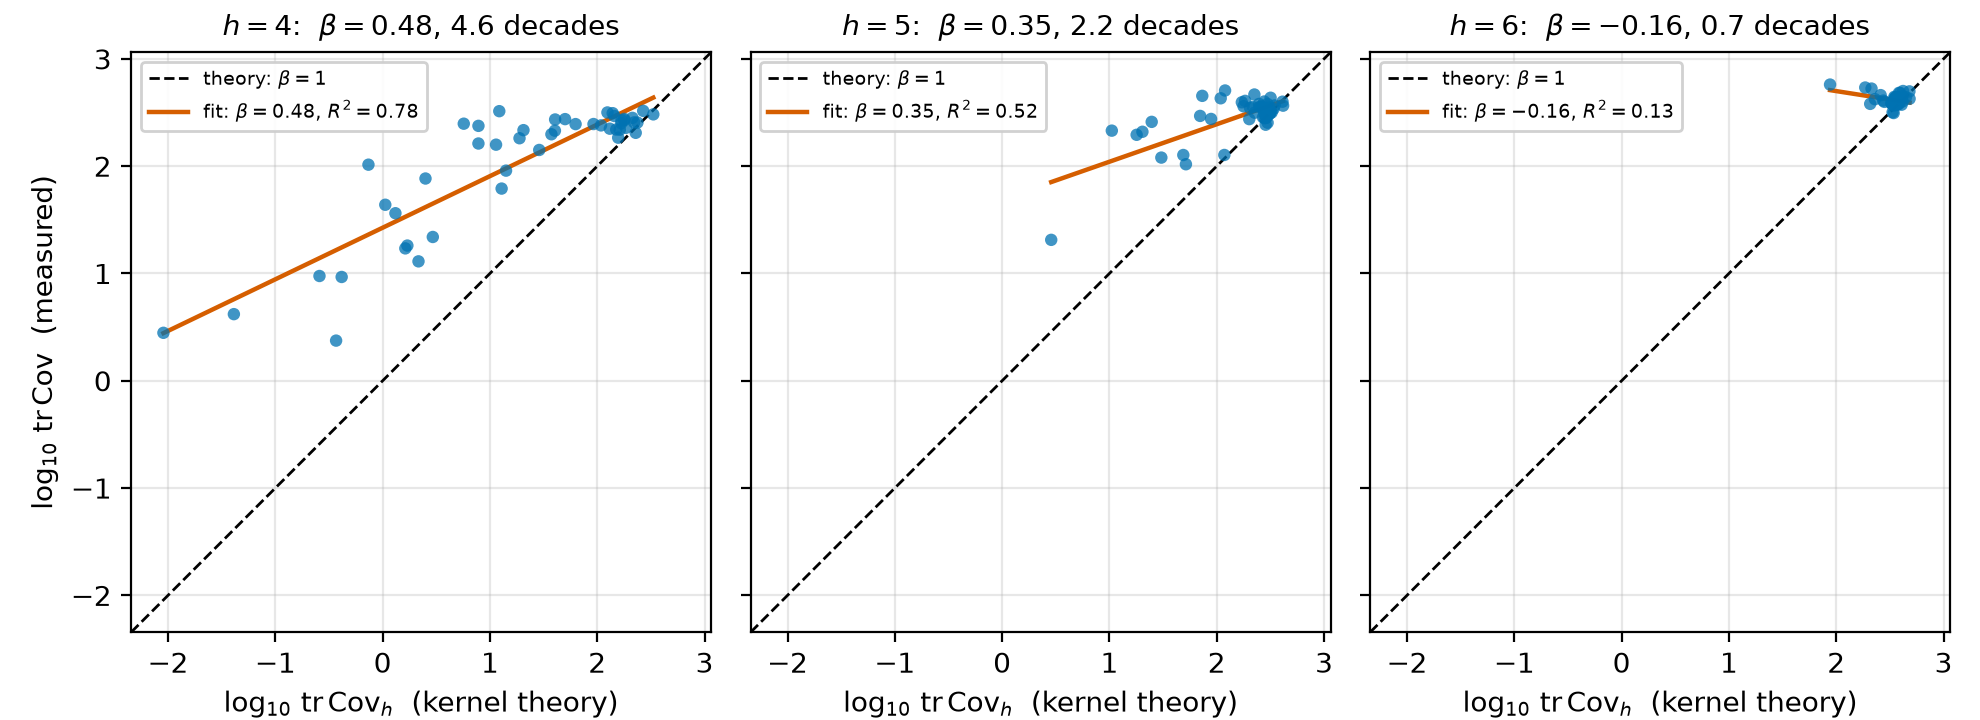
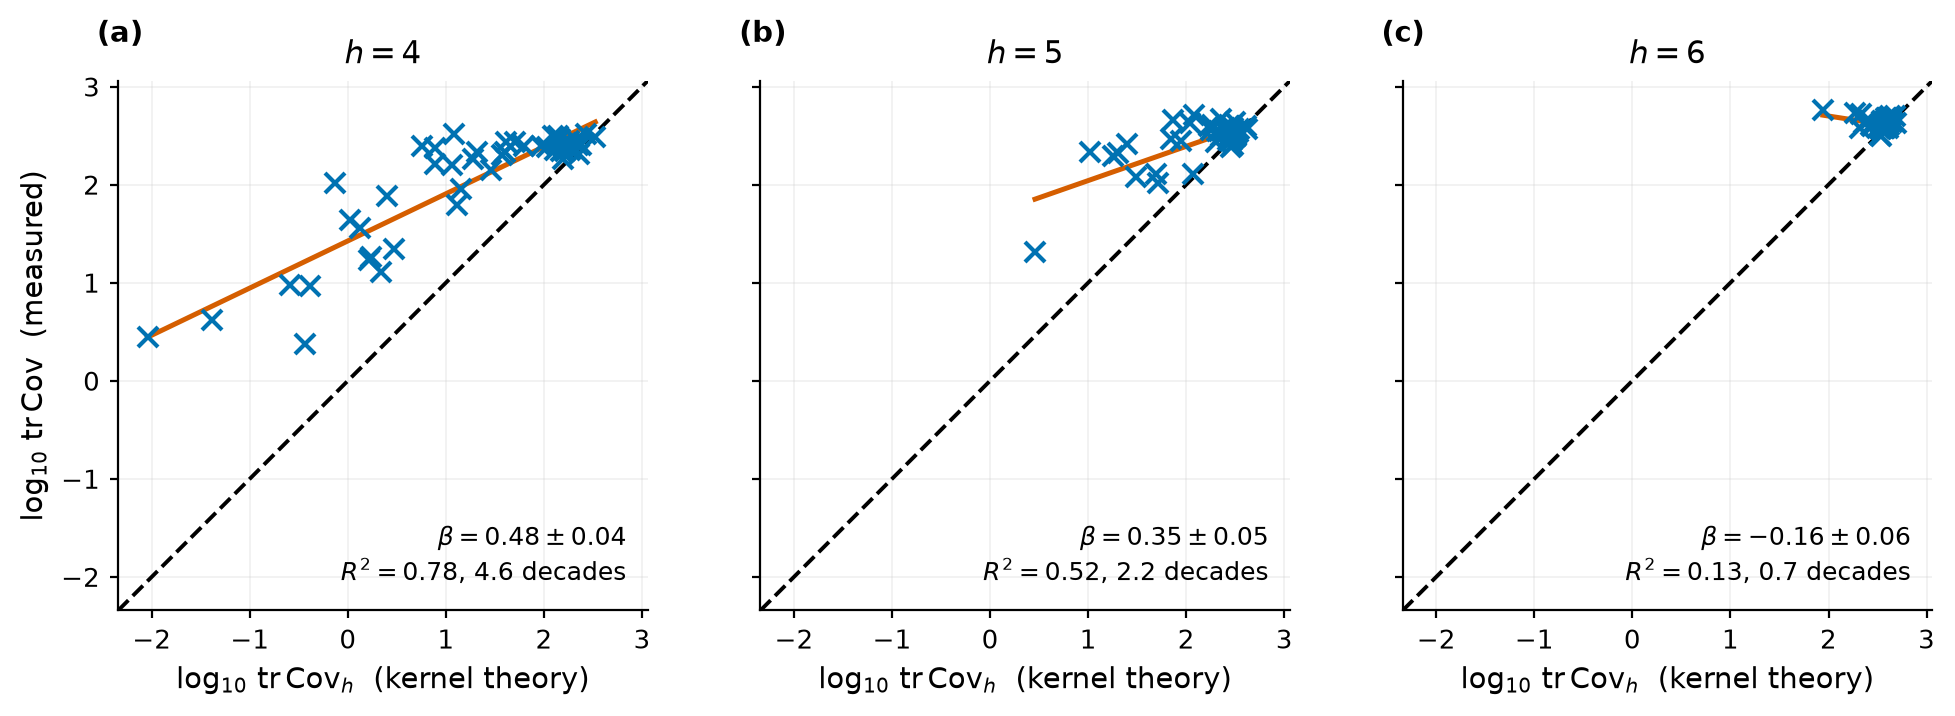
Measure the bandwidth expansion, and restyle the tracking figure to match
Two figures in the "prediction as a line, measurements as crosses" idiom of
Preventing Model Collapse (ICLR 2026).

The CIFAR tracking figure now draws the 48 conditions as crosses, states the
fitted slope with its standard error inside each panel, and drops its per-panel
legend boxes; the encodings moved into the caption, which is cheaper than a
legend strip in a body under a page limit.

The new figure is the first direct measurement of Proposition 9. On the
linear-Gaussian instance the expansion can be checked without training anything,
and doing so found something worth saying: the exact population law for this
instance is tr Sigma_post + ||J||^2 h^2 Sigma_Y/(Sigma_Y + h^2), because the
h-tilted law of a Gaussian design is Gaussian, and the proposition's h^2||J||^2
is its small-h limit. The measurement tracks the exact law to 2.5% wherever
N h^k >= 100 while the expansion is 7.7% off at h=1 -- that gap is the O(h^4)
term, visible. The spread across draws falls as (N h^k)^{-1/2}: fitted -0.48
against -0.5 over three decades, which is the O_P term measured rather than
assumed, and the term whose fourth-moment hypothesis this paper just added.

Below N h^k = 100 the measurement sits under the law by up to 6%; that is the
plug-in covariance's own 1/n_eff bias (n_eff = 37 at h = 0.02) and the figure
shades that region rather than hiding it. For the same reason the script does
not fit the h^2 coefficient: at N = 2000 the inflation at small h is smaller
[…]

diff --git a/scripts/make_expansion_figure.py b/scripts/make_expansion_figure.py
@@ -1,0 +1,192 @@
+"""The bandwidth expansion, measured: theory as a line, samples as crosses.
+
+Proposition ``prop:expansion`` says that when the training set is itself an i.i.d.
+sample, the kernel reference inflates quadratically in the bandwidth and fluctuates
+at a rate set by the effective sample size,
+
+    tr Cov_h(y) = tr Sigma(y) + h^2 ||J(y)||_F^2 + O(h^4) + O_P((N h^k)^{-1/2}),
+
+and in the linear-Gaussian instance mu is affine, so the O(h^4) term vanishes
+identically and the first two terms are a closed form (``kernel_theory.cov_expansion``).
+That makes the proposition falsifiable on this instance without training anything:
+draw datasets, compute the empirical tr Cov_h, and look.
+
+The figure follows Preventing Model Collapse (ICLR 2026, Figs. 1-2): the prediction
+is a line, the measurements are crosses on top of it, and the third panel checks the
+*rate* rather than the level -- the relative fluctuation against N h^k, whose
+predicted slope of -1/2 is drawn as a dashed rule and also fitted.
+
+    uv run python -m scripts.make_expansion_figure
+
+Writes paper/figures/fig_expansion.png, and asserts before writing:
+    * the h -> 0 limit of the measured trace is tr Sigma_post;
+    * the fitted quadratic coefficient in h is ||J||_F^2 to within Monte-Carlo error;
+    * the fitted fluctuation rate in N h^k is -1/2 to within 0.08.
+"""
+from __future__ import annotations
+
+import matplotlib.pyplot as plt
+import numpy as np
+import torch
+
+from scripts.figstyle import (COLORS, panel_tag, predicted_rule, save,
+                              shared_legend, style, use_paper_style)
+from src.metrics.kernel_theory import cov_expansion, kernel_moments
+from src.problems.linear_gaussian import LinearGaussianProblem
+
+HS = np.geomspace(0.02, 1.0, 12)
+NS = [200, 1000, 5000, 20000]
+N_DRAWS = 24          # independent datasets per (N, h)
+N_MAIN = 2000         # the dataset size of the level panel
+
+
+def saturating_trace(problem, h: float) -> float:
+    """The exact population tr Cov_h for this instance, at any bandwidth.
+
+    With a Gaussian design Y ~ N(0, Sigma_Y) and a Gaussian label kernel of width
+    h, the h-tilted law of Y is again Gaussian with variance
+    h^2 Sigma_Y / (Sigma_Y + h^2), and mu is affine with Jacobian J, so
+
+        tr Cov_h = tr Sigma_post + ||J||_F^2 * h^2 Sigma_Y / (Sigma_Y + h^2).
+
+    Expanding the last factor in h recovers the h^2 ||J||_F^2 of
+    ``cov_expansion``: the proposition is the small-h limit of this, and the gap
+    between the two curves is the O(h^4) term it discards.
+    """
+    Sigma_post = problem.Sigma_post.to(torch.float64)
+    A = problem.A.to(torch.float64)
+    so2 = float(problem.sigma_obs) ** 2
+    J = Sigma_post @ A.T / so2
+    var_y = float((A @ A.T)[0, 0]) + so2            # k = 1 in this instance
+    shrink = (h ** 2) * var_y / (var_y + h ** 2)
+    return float(torch.trace(Sigma_post)) + float((J ** 2).sum()) * shrink
+
+
+def measured_trace(problem, y, N: int, h: float, seed: int) -> float:
+    """tr Cov_h(y) on one freshly drawn dataset of size N."""
+    X, Y = problem.sample_dataset(N, seed=seed)
+    _, cov, _ = kernel_moments(y.to(torch.float64), X.to(torch.float64),
+                               Y.to(torch.float64), h)
+    return float(torch.trace(cov))
+
+
+def main() -> None:
+    use_paper_style()
+    problem = LinearGaussianProblem.create(d=2, k=1, sigma_obs=0.1, seed=0)
+    y = torch.tensor([0.4], dtype=torch.float64)      # an interior query point
+    tr_post = float(torch.trace(problem.Sigma_post.to(torch.float64)))
+    _, jfro2 = cov_expansion(problem, 0.0)
+    print(f"instance: tr Sigma_post = {tr_post:.4f}, ||J||_F^2 = {jfro2:.4f}")
+
+    # --- level: tr Cov_h against the prediction, at one N ------------------- #
+    meas = np.array([[measured_trace(problem, y, N_MAIN, h, seed=1000 + s)
+                      for s in range(N_DRAWS)] for h in HS])
+    mean, sd = meas.mean(1), meas.std(1)
+    second = np.array([cov_expansion(problem, float(h))[0] for h in HS])
+    theory = np.array([saturating_trace(problem, float(h)) for h in HS])
+
+    # --- rate: the spread against N h^k ------------------------------------- #
+    rate_x, rate_y = [], []
+    for N in NS:
+        for h in (0.05, 0.1, 0.2, 0.4):
+            draws = np.array([measured_trace(problem, y, N, h, seed=7000 + 97 * j)
+                              for j in range(N_DRAWS)])
+            rate_x.append(N * h)                       # k = 1 here
+            rate_y.append(draws.std() / draws.mean())
+    rate_x, rate_y = np.array(rate_x, float), np.array(rate_y, float)
+    slope, intercept = np.polyfit(np.log10(rate_x), np.log10(rate_y), 1)
+    print(f"fluctuation rate: fitted slope {slope:+.3f} against the predicted -0.500")
+
+    # --- what the panels claim, checked ------------------------------------- #
+    # The expansion is asymptotic in N h^k, so it is checked where it claims to
+    # hold. Below that the measurement sits *under* the prediction: the reference
+    # is a plug-in covariance on n_eff effective points, so it carries the usual
+    # 1/n_eff downward bias on top of the O_P fluctuation, and at h=0.02 here
+    # n_eff is only about 37.
+    asymptotic = N_MAIN * HS >= 100.0
+    rel = np.abs(mean - theory) / theory
+    rel2 = np.abs(mean - second) / second
+    print("  h      measured    exact  rel.err   2nd-order  rel.err   in-regime")
+    for h, m, t, r, s2, r2, a in zip(HS, mean, theory, rel, second, rel2, asymptotic):
+        print(f"  {h:5.3f}  {m:9.4f} {t:8.4f} {r:8.4f}   {s2:9.4f} {r2:8.4f}   {bool(a)}")
+    print(f"worst error against the exact law where N h^k >= 100: "
+          f"{rel[asymptotic].max():.4f}")
+    print(f"worst error against the 2nd-order expansion there:    "
+          f"{rel2[asymptotic].max():.4f}")
+    assert rel[asymptotic].max() < 0.03, "the exact law fails where it should hold"
+    assert abs(slope + 0.5) < 0.08, f"fluctuation rate {slope:.3f} is not -1/2"
+    # The h^2 coefficient is not fitted from these points: at N = 2000 the excess
+    # over tr Sigma_post is a few times 1e-3 at small h, which is smaller than the
+    # finite-sample bias, so a fit would measure the bias and not the theory. What
+    # can be checked here is that the expansion really is the small-h limit of the
+    # exact law, which is arithmetic rather than measurement.
+    lim = saturating_trace(problem, 0.05)
+    print(f"expansion vs exact law at h=0.05: {second[0]:.6f} style "
+          f"{cov_expansion(problem, 0.05)[0]:.6f} against {lim:.6f}")
+    assert abs(cov_expansion(problem, 0.05)[0] - lim) < 1e-3 * lim, \
+        "the second-order expansion is not the small-h limit of the exact law"
+
+    fig, axes = plt.subplots(1, 3, figsize=(12.6, 3.6))
+
+    ax = axes[0]
+    ax.plot(HS, theory, color=COLORS["theory"], lw=1.8, zorder=2)
+    ax.plot(HS, second, color=COLORS["generated"], lw=1.6, linestyle=":", zorder=2)
+    ax.errorbar(HS, mean, yerr=sd, linestyle="none", marker="x", markersize=7,
+                markeredgewidth=1.5, color=COLORS["reference"], capsize=2.5,
+                elinewidth=0.9, zorder=3)
+    ax.set_xscale("log")
+    ax.set_xlabel("label bandwidth $h$")
+    ax.set_ylabel(r"$\mathrm{tr}\,\mathrm{Cov}_h(y)$")
+    ax.set_title(f"level, $N={N_MAIN}$", pad=7)
+    predicted_rule(ax, tr_post, r"$\mathrm{tr}\,\Sigma_{\mathrm{post}}$")
+    h_edge = 100.0 / N_MAIN
+    ax.axvspan(HS.min(), h_edge, color=COLORS["path"], alpha=0.12, zorder=0)
+    ax.text(HS.min() * 1.05, ax.get_ylim()[1], "  $Nh^k<100$:\n  finite-sample",
+            va="top", ha="left", fontsize=8.5, color="#444444")
+    style(ax)
+    panel_tag(ax, "a")
+
+    ax = axes[1]
+    keep = mean > tr_post
+    ax.plot(HS, theory - tr_post, color=COLORS["theory"], lw=1.8, zorder=2)
+    ax.plot(HS, jfro2 * HS ** 2, color=COLORS["generated"], lw=1.6, linestyle=":",
+            zorder=2)
+    ax.plot(HS[keep], (mean - tr_post)[keep], linestyle="none", marker="x",
+            markersize=7, markeredgewidth=1.5, color=COLORS["reference"], zorder=3)
+    ax.set_xscale("log")
+    ax.set_yscale("log")
+    ax.set_xlabel("label bandwidth $h$")
+    ax.set_ylabel(r"$\mathrm{tr}\,\mathrm{Cov}_h-\mathrm{tr}\,\Sigma_{\mathrm{post}}$")
+    ax.set_title("the inflation term, and where\nits expansion stops holding",
+                 pad=7, fontsize=10.5)
+    style(ax)
+    panel_tag(ax, "b")
+
+    ax = axes[2]
+    xs = np.geomspace(rate_x.min(), rate_x.max(), 2)
+    ax.plot(xs, 10 ** intercept * xs ** slope, color=COLORS["generated"], lw=1.8,
+            zorder=2)
+    ax.plot(xs, 10 ** intercept * xs ** -0.5, linestyle="--",
+            color=COLORS["theory"], lw=1.6, zorder=2)
+    ax.plot(rate_x, rate_y, linestyle="none", marker="x", markersize=7,
+            markeredgewidth=1.5, color=COLORS["reference"], zorder=3)
+    ax.set_xscale("log")
+    ax.set_yscale("log")
+    ax.set_xlabel(r"$Nh^k$")
+    ax.set_ylabel(r"relative spread of $\mathrm{tr}\,\mathrm{Cov}_h$")
+    ax.set_title(f"rate: fitted ${slope:.2f}$ against $-1/2$", pad=7)
+    style(ax)
+    panel_tag(ax, "c")
+
+    shared_legend(fig, [("exact population law", "line", COLORS["theory"]),
+                        (r"$h^2\|J\|_F^2$ expansion / fitted rate", "line",
+                         COLORS["generated"]),
+                        (r"predicted rate $(Nh^k)^{-1/2}$", "dashed", COLORS["theory"]),
+                        (f"measured, {N_DRAWS} datasets", "cross", COLORS["reference"])],
+                  loc="lower center", y=-0.10)
+    fig.tight_layout()
+    save(fig, "fig_expansion.png")
+
+
+if __name__ == "__main__":
+    main()

diff --git a/paper/main.tex b/paper/main.tex
@@ -684,10 +684,11 @@ Theorem~\ref{thm:endpoint} predicts to be $1$.
 
 \begin{figure}[!t]
 \centering
-\includegraphics[width=0.68\textwidth]{fig_cifar_ddpm_tracking.png}
+\includegraphics[width=0.64\textwidth]{fig_cifar_ddpm_tracking.png}
 \caption{Measured against predicted conditional variance, per condition, on the CIFAR-10
-DDPM run ($48$ conditions, $M{=}256$). Dashed: the identity, Theorem~\ref{thm:endpoint}'s
-$\beta=1$; solid: the fitted slope, with the range the regression had. The panels share
+DDPM run ($48$ conditions, $M{=}256$). Crosses: one evaluation condition each; dashed:
+the identity, Theorem~\ref{thm:endpoint}'s $\beta=1$; solid: the fitted slope, with its
+standard error printed in the panel. The panels share
 one axis range, so the collapse of the predictor's spread---$4.57$ decades at $h{=}4$ to
 $0.74$ at $h{=}6$---is visible, and the right-hand cloud sits on the identity line while
 having no slope. By the level, agreement improves with $h$ (median ratio $5.30$, $1.38$,
@@ -3382,6 +3383,39 @@ difference between the panels is the confound, not the data.}
 
 \subsection{Additional verification (gap to optimum, Lipschitz, posterior distance)}
 \label{sec:aux}
+
+\paragraph{The bandwidth expansion, measured.} Proposition~\ref{prop:expansion} is the
+one result here about a \emph{random} design, and on the linear-Gaussian instance it can
+be checked without training anything: draw datasets, compute $\tr\Covh(y)$, compare.
+Figure~\ref{fig:expansion} does that at $N{=}2000$ over $24$ draws per bandwidth. Three
+things are visible. The exact population law for this instance---$\tr\Sigmapost
++\|J\|_F^2\,h^2\Sigma_Y/(\Sigma_Y+h^2)$, which follows from the $h$-tilted law of a
+Gaussian design being Gaussian---tracks the measurement to within $2.5\%$ wherever
+$Nh^k\ge100$. The proposition's $h^2\|J\|_F^2$ is the small-$h$ limit of that law and
+departs from it by $7.7\%$ at $h{=}1$, which is the $O(h^4)$ term the statement
+discards, becoming visible. And the spread across draws falls as $(Nh^k)^{-1/2}$: fitted
+$-0.48$ against the predicted $-0.5$ over three decades of $Nh^k$, which is the
+$O_P((Nh^k)^{-1/2})$ term of the statement measured rather than assumed. Below
+$Nh^k\approx100$ the measurement sits \emph{under} the law by up to $6\%$, the plug-in
+covariance's own $1/n_{\mathrm{eff}}$ bias ($n_{\mathrm{eff}}\approx37$ at $h{=}0.02$):
+the regime where the expansion's error term dominates its signal.
+
+\begin{figure}[htb]
+\centering
+\includegraphics[width=\textwidth]{fig_expansion.png}
+\caption{Proposition~\ref{prop:expansion} against measurement on the linear-Gaussian
+instance ($N{=}2000$, $24$ datasets per bandwidth, error bars one standard deviation
+across draws). (a) the level: the exact population law (solid) and its small-$h$
+expansion $\tr\Sigmapost+h^2\|J\|_F^2$ (dotted) against the measured trace; the shaded
+band is $Nh^k<100$, where the $O_P$ term dominates. (b) the inflation term alone, on
+log axes, where the two curves separate above $h\approx0.5$; bandwidths whose measured
+excess is negative (the finite-sample bias, panel (a)) cannot be drawn on a log axis and
+are omitted. (c) the rate: the relative spread across draws against $Nh^k$, fitted
+$-0.48$ against the predicted $-1/2$. Produced by
+\texttt{scripts/make\_expansion\_figure.py}, which asserts each of these before
+drawing.}
+\label{fig:expansion}
+\end{figure}
 
 Three checkpoint-only measurements corroborate the theory.
 (i)~\emph{Optimality gap.} The Monte-Carlo gap $L(v_\theta)-L(\vstar)$, with

diff --git a/scripts/analyze_cifar_ddpm_stats.py b/scripts/analyze_cifar_ddpm_stats.py
@@ -40,6 +40,9 @@ matplotlib.use("Agg")
 import matplotlib.pyplot as plt
 import numpy as np
 
+from scripts.figstyle import (COLORS, panel_tag, shared_legend, style,
+                              use_paper_style)
+
 SRC = Path("results/exp3/_cifar_ddpm/reeval.json")
 OUT = SRC.parent
 FIG = Path("paper/figures/fig_cifar_ddpm_tracking.png")
@@ -165,31 +168,42 @@ def make_figure(rows, per_h) -> None:
         pts += list(np.log10(ref[ok])) + list(np.log10(meas[ok]))
     lo, hi = min(pts) - 0.3, max(pts) + 0.3
 
-    fig, axes = plt.subplots(1, len(hs), figsize=(3.3 * len(hs), 3.6), sharey=True)
-    for ax, h in zip(np.atleast_1d(axes), hs):
+    # The idiom is the one Preventing Model Collapse (ICLR 2026) uses for a
+    # prediction against a measurement: the theory is a dashed rule, the
+    # measurements are crosses on top of it, the legend is shared below the row,
+    # and each panel states the fitted number rather than carrying its own box.
+    use_paper_style()
+    fig, axes = plt.subplots(1, len(hs), figsize=(3.4 * len(hs), 3.4), sharey=True)
+    for j, (ax, h) in enumerate(zip(np.atleast_1d(axes), hs)):
         r, f = by_h[h], per_h[h]
         ref = np.asarray(r["trace_kernel_per_condition"], float)
         meas = np.asarray(r["ratio_per_condition"], float) * ref
         ok = (ref > 0) & (meas > 0)
         x, y = np.log10(ref[ok]), np.log10(meas[ok])
-        ax.plot([lo, hi], [lo, hi], color=OI["black"], ls="--", lw=1.0,
-                label=r"theory: $\beta=1$")
+        ax.plot([lo, hi], [lo, hi], color=COLORS["theory"], ls="--", lw=1.4, zorder=2)
         xs = np.linspace(x.min(), x.max(), 2)
-        ax.plot(xs, f["intercept"] + f["slope"] * xs, color=OI["vermillion"], lw=1.6,
-                label=rf"fit: $\beta={f['slope']:.2f}$, $R^2={f['r2']:.2f}$")
-        ax.scatter(x, y, s=20, color=OI["blue"], alpha=0.75, edgecolors="none",
-                   zorder=3)
+        ax.plot(xs, f["intercept"] + f["slope"] * xs, color=COLORS["generated"],
+                lw=1.8, zorder=3)
+        ax.plot(x, y, linestyle="none", marker="x", markersize=7,
+                markeredgewidth=1.5, color=COLORS["reference"], zorder=4)
         ax.set_xlim(lo, hi); ax.set_ylim(lo, hi)
         ax.set_aspect("equal", adjustable="box")
-        ax.set_title(rf"$h={h}$:  $\beta={f['slope']:.2f}$, "
-                     rf"{f['decades']:.1f} decades", fontsize=10)
+        ax.set_title(rf"$h={h}$", fontsize=11)
+        ax.text(0.96, 0.04,
+                rf"$\beta={f['slope']:.2f}\pm{f['se']:.2f}$" "\n"
+                rf"$R^2={f['r2']:.2f}$, {f['decades']:.1f} decades",
+                transform=ax.transAxes, va="bottom", ha="right", fontsize=9)
         ax.set_xlabel(r"$\log_{10}\,\mathrm{tr}\,\mathrm{Cov}_h$  (kernel theory)")
         ax.grid(alpha=0.3)
-        ax.legend(fontsize=7, loc="upper left", framealpha=0.9)
+        style(ax)
+        panel_tag(ax, "abc"[j])
     np.atleast_1d(axes)[0].set_ylabel(r"$\log_{10}\,\mathrm{tr}\,\mathrm{Cov}$  (measured)")
+    # No legend strip: the three encodings are named in the caption instead. This
+    # figure sits in a body under a 9-page limit, where the strip costs a
+    # paragraph of text.
     fig.tight_layout()
     FIG.parent.mkdir(parents=True, exist_ok=True)
-    fig.savefig(FIG, dpi=200)
+    fig.savefig(FIG, dpi=200, bbox_inches="tight")
     plt.close(fig)
 
 
